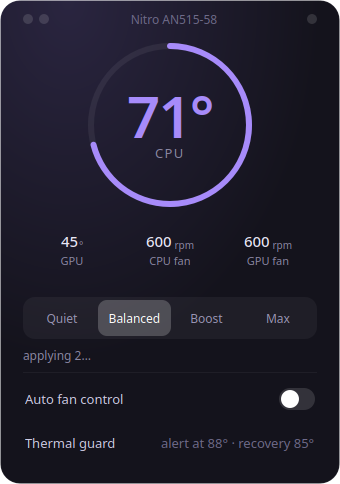
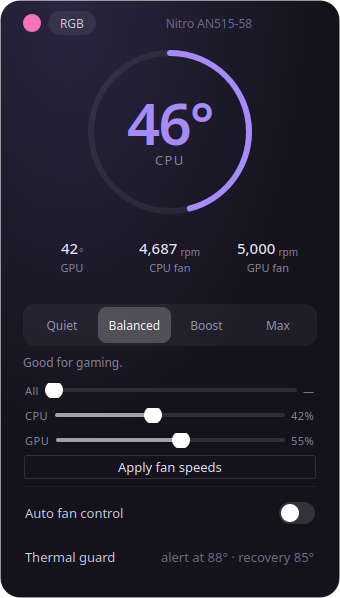
assets + README for sharing: fresh screenshots (converged RPM, per-fan sliders wired to EC commanded values, Neon RGB preview); README adds tested-on/requirements (facer module, hwdb for Fn keys, model-specific EC warning), 26 assertions
also: per-fan commanded duty parsed into Fan (sliders showed 0% while EC was at 42/55); screenshot mode waits for RPM easing to converge (asset showed 600 rpm mid-animation)

diff --git a/src/core/sensors.cpp b/src/core/sensors.cpp
@@ -54,15 +54,20 @@ QVector<Fan> readFans()
     const QStringList parts = QString::fromUtf8(p.readAllStandardOutput())
                                   .trimmed()
                                   .split(' ', Qt::SkipEmptyParts);
-    if (parts.size() < 4)
+    if (parts.size() < 6)
         return fans;
     bool okC = false, okG = false, okA = false, okD = false;
     const unsigned cw = parts[0].toUInt(&okC);
     const unsigned gw = parts[1].toUInt(&okG);
     const int autoBit = parts[2].toInt(&okA);
-    const int cmdDuty = parts[3].toInt(&okD);   // last commanded manual %
+    const int cmdAll = parts[3].toInt(&okD);    // last both-fans command
     if (!okC || !okG || !okA || !okD)
         return fans;
+    bool okCC = false, okGG = false;
+    int cmdC = parts[4].toInt(&okCC);           // per-fan commanded duty
+    int cmdG = parts[5].toInt(&okGG);
+    if (!okCC) cmdC = cmdAll;
+    if (!okGG) cmdG = cmdAll;
     // word duty-of-8500 → percent (same scale the EC tach reports)
     Fan cpu, gpu;
     cpu.name = QStringLiteral("CPU Fan");
@@ -70,13 +75,13 @@ QVector<Fan> readFans()
     cpu.tgt = cpu.cur;                       // manual duty == achieved duty
     cpu.steps = 8500;
     cpu.autoCtl = autoBit != 0;
-    cpu.cmdDuty = cmdDuty;
+    cpu.cmdDuty = cmdC;
     gpu.name = QStringLiteral("GPU Fan");
     gpu.cur = gw * 100.0 / 8500.0;
     gpu.tgt = gpu.cur;
     gpu.steps = 8500;
     gpu.autoCtl = autoBit != 0;
-    gpu.cmdDuty = cmdDuty;
+    gpu.cmdDuty = cmdG;
     fans.append(cpu);
     fans.append(gpu);
     return fans;

diff --git a/src/app/main.cpp b/src/app/main.cpp
@@ -12,11 +12,14 @@
 #include <QTimer>
 #include <cstdio>
 
-static bool saveShot(QWidget &w, const QString &file)
+// settleMs: the popup's RPM readout eases toward the real value (~300/70ms)
+// so a short capture would freeze it mid-animation (600 rpm in the asset while
+// the fans ran at 3658). Give it time to converge.
+static bool saveShot(QWidget &w, const QString &file, int settleMs = 200)
 {
     w.show();
     QEventLoop loop;
-    QTimer::singleShot(200, &loop, &QEventLoop::quit);
+    QTimer::singleShot(settleMs, &loop, &QEventLoop::quit);
     loop.exec();
     if (!w.grab().save(file)) {
         std::fprintf(stderr, "nitro-control: cannot save screenshot %s\n",
@@ -82,7 +85,7 @@ int main(int argc, char **argv)
         Popup popup(&tray, [] {});
         popup.refresh();
         popup.toggle(); // also starts refresh/anim timers for the snapshot
-        return saveShot(popup, file) ? 0 : 1;
+        return saveShot(popup, file, 2500) ? 0 : 1;   // let RPM converge
     }
 
     // normal tray: single instance

diff --git a/README.md b/README.md
@@ -7,6 +7,12 @@ keyboard RGB panel, in a single ~250 KB binary.
 ![popup](docs/screenshot.png)
 ![rgb panel](docs/screenshot-rgb.png)
 
+> **Tested on:** Acer Nitro AN515-58 · i5-12500H · RTX 3050 · Fedora 44 · KDE
+> Plasma (Wayland). The fan engine talks to *this* model's embedded controller
+> (registers below) — other Nitro/Predator models need their own register map,
+> **do not run it blindly on them**. The UI, RGB panel and test suite are
+> model-agnostic.
+
 ## Why C++?
 
 This repo started as a Python/PySide6 app (in git history) and was rewritten
@@ -33,7 +39,10 @@ in C++/Qt6 with identical features and look:
   `~/.config/nitro-control/rgb.json`, re-applied at login
   (`nitro-rgb-restore.service`) and on resume (`system-sleep` hook)
 - **Fan engine** — direct EC writes (no daemon); auto = EC firmware curve,
-  manual = per-fan duty from the popup sliders; thermal guard rolls back ≥88 °C
+  manual = per-fan duty (CPU and GPU independently) from the popup sliders;
+  thermal guard rolls back at ≥88 °C
+- **Fn+F9 / Fn+F10 keyboard-backlight keys** — captured as Plasma global
+  shortcuts (kglobalaccel), step the RGB brightness ±10 %
 - **Single instance** — `~/.nitro-tray.lock`, lazy popup/RGB windows,
   timers only while visible/hot
 
@@ -56,6 +65,21 @@ NOPASSWD sudoers lines** (thermal on/off, `cpu *`, `fan *` — with token
 re-validation inside the helper). No password is stored, echoed or derived
 anywhere; `sudo -n` is used by every caller, so a missing rule fails loudly
 instead of prompting.
+
+## Requirements
+
+| Need | For |
+|---|---|
+| Qt6 (Widgets, Concurrent, DBus), cmake ≥ 3.16, g++/gcc | build |
+| KDE Plasma 6 | global shortcuts (Fn keys), tray |
+| `acer_wmi` blacklisted + `facer` module | RGB (`/dev/acer-gkbbl-0`) |
+| stock Fedora `60-keyboard.hwdb` mapping | Fn+F9/F10 arrive as kbdillum keys |
+| nothing else | **no nbfc, no python, no daemon** |
+
+RGB needs the out-of-tree `facer` module (DKMS). Fn keys need the upstream hwdb
+entries (already shipped by Fedora):
+`KEYBOARD_KEY_ef=!kbdillumup` / `KEYBOARD_KEY_f0=!kbdillumdown` — verify with
+`udevadm info /sys/class/input/event* | grep KEYBOARD_KEY`.
 
 ## Build
 
@@ -109,7 +133,7 @@ src/
     tray.*            system-tray icon, menu, hot pulse
   app/
     main.cpp          CLI: tray / --restore-rgb / --screenshot / --selftest
-    selftest.cpp      offscreen UI test driver (17+ assertions)
+    selftest.cpp      offscreen UI test driver (26 assertions)
 bin/                  turbo-lvl, nitro-priv (root whitelist), nitro-fan.c (EC), guard
 systemd/              user units + system-sleep RGB hook
 docs/                 screenshots
